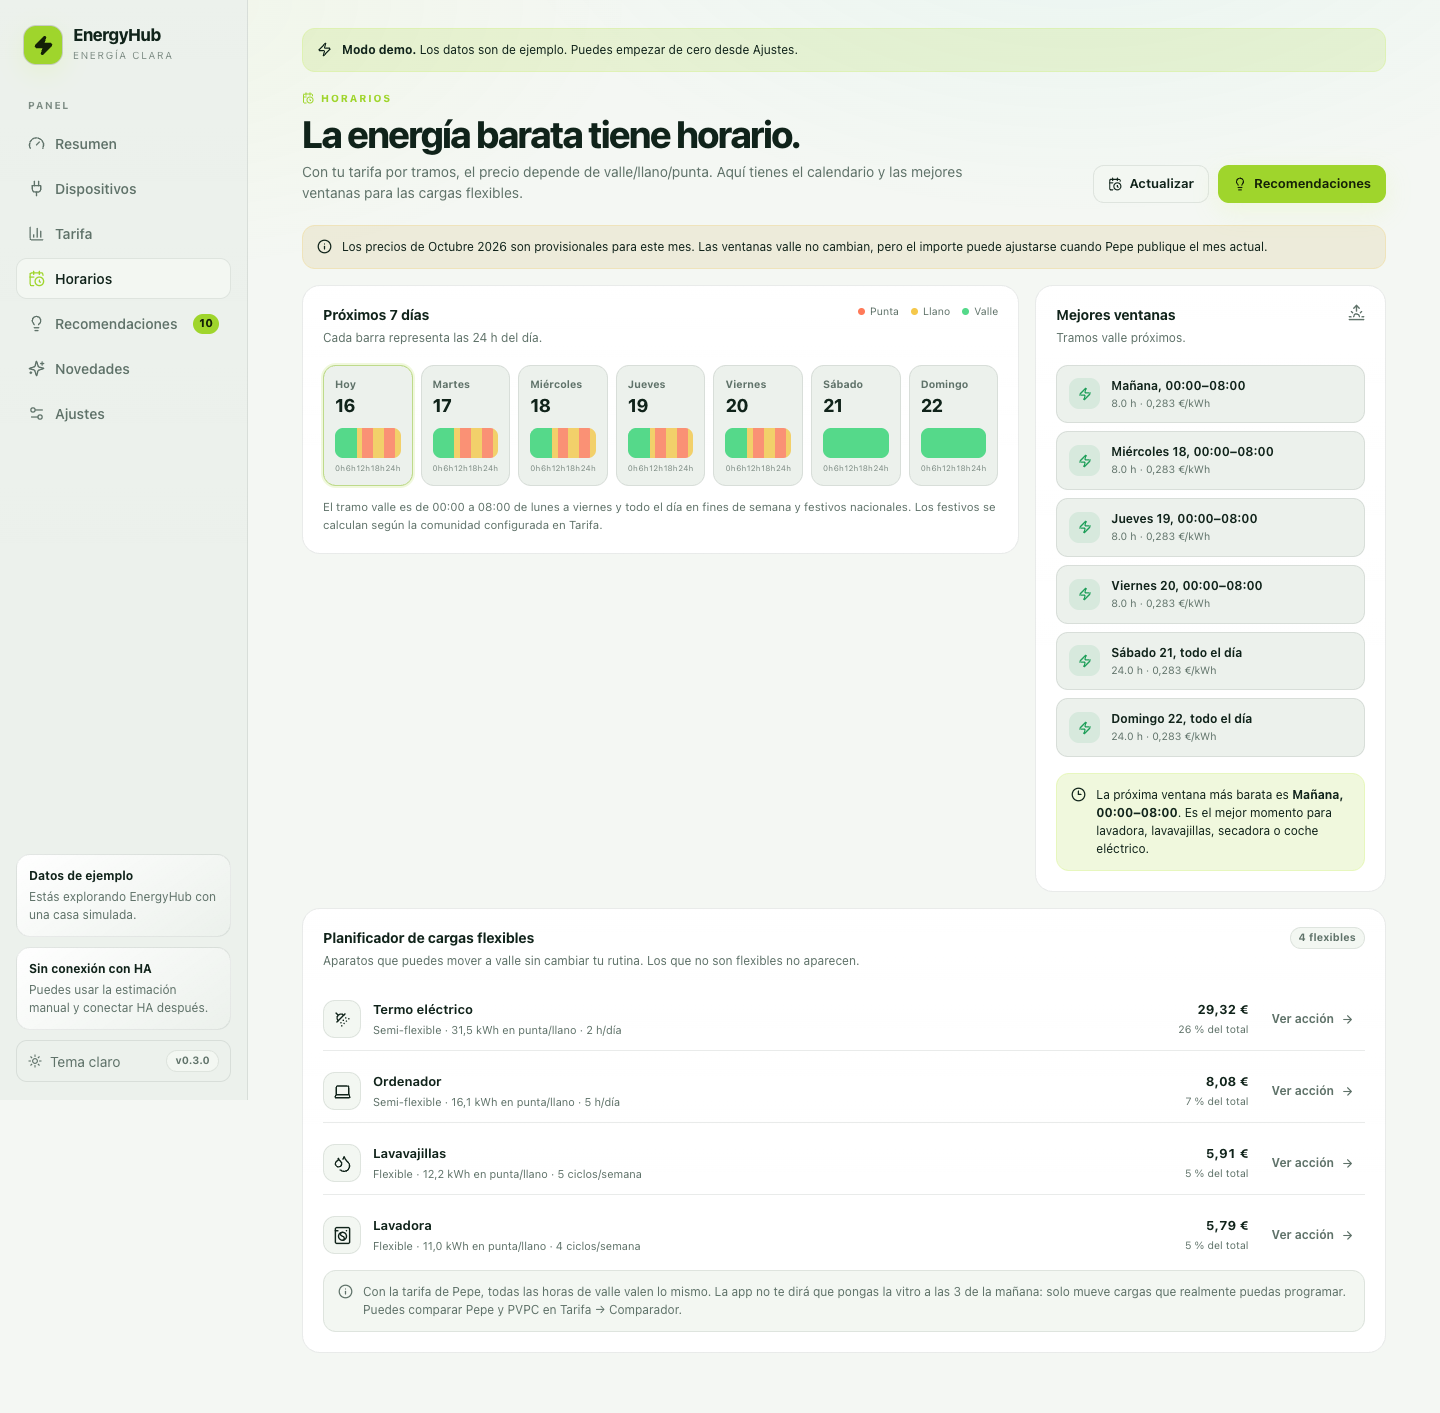
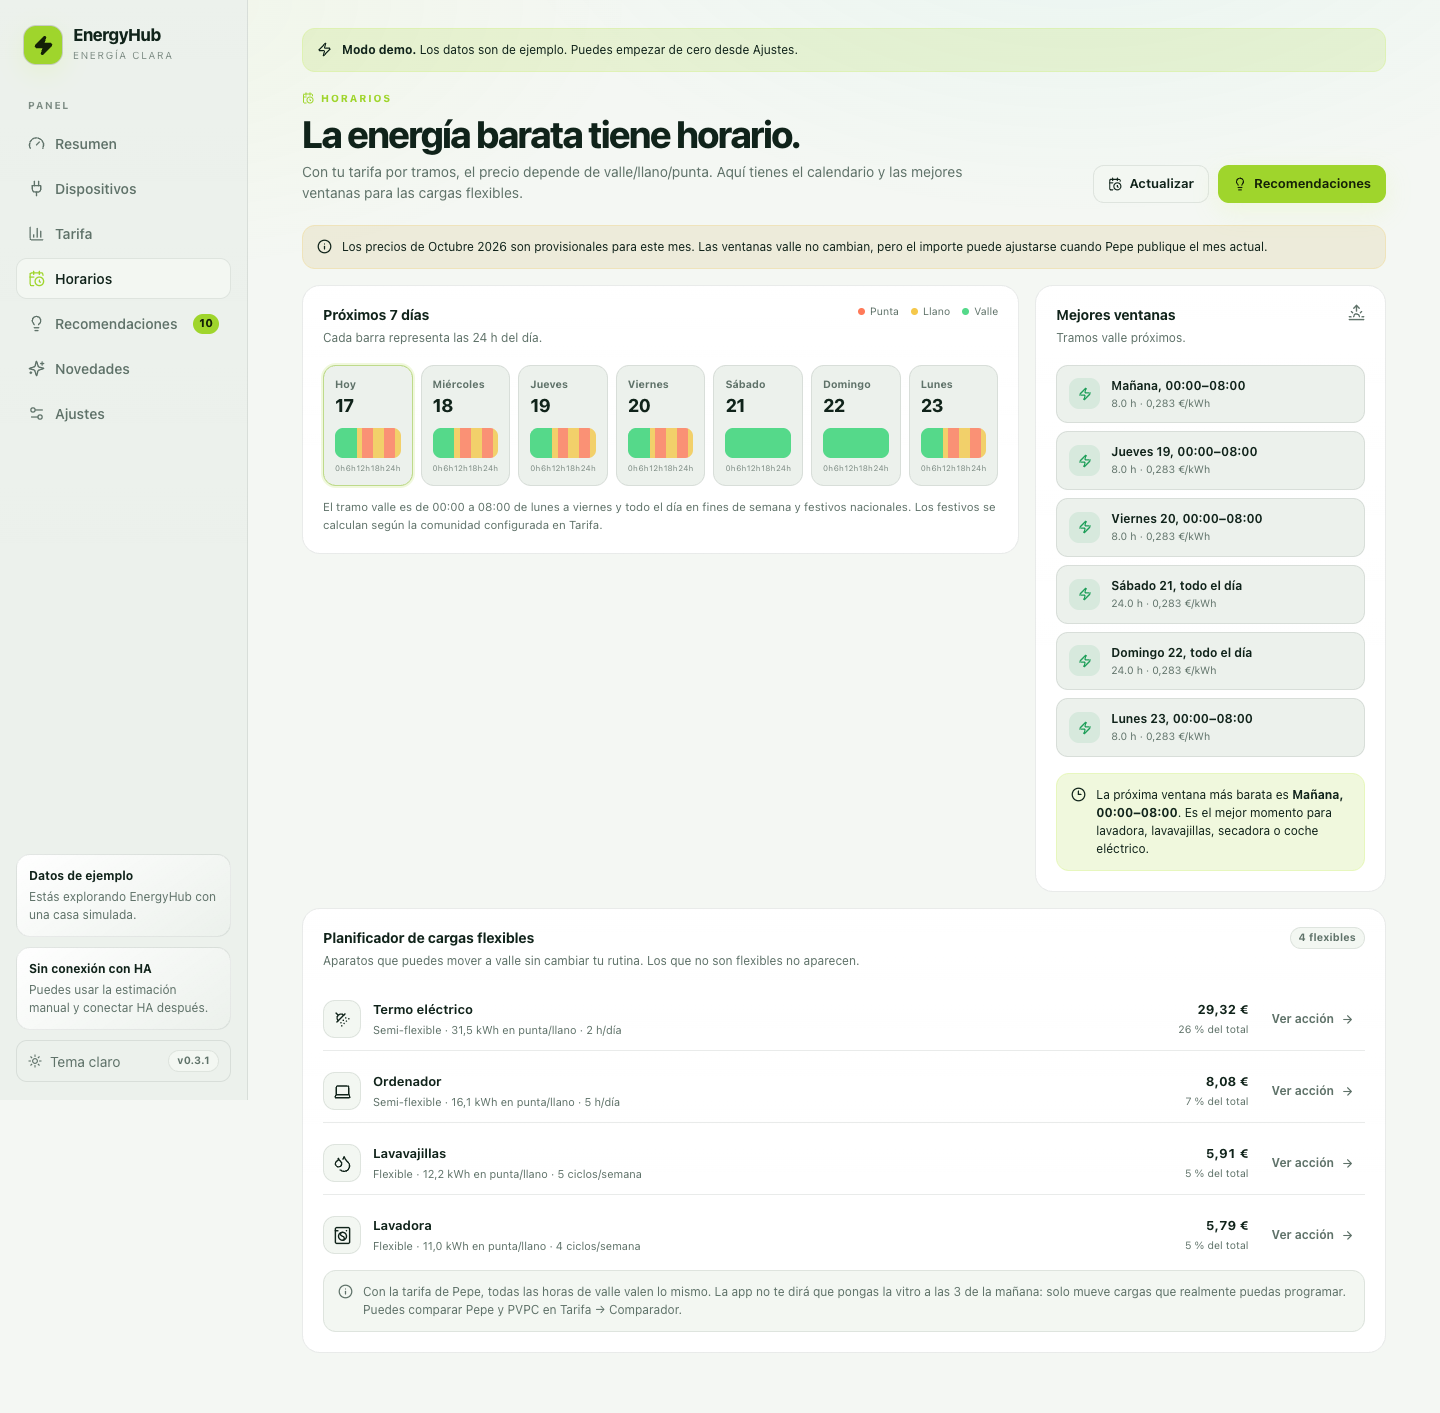
0.3.1: estadísticas de largo plazo para energía de dispositivos

diff --git a/energyhub/backend/app/services/ha.py b/energyhub/backend/app/services/ha.py
@@ -1,10 +1,14 @@
 from __future__ import annotations
 
+import asyncio
+import json
 from dataclasses import dataclass
 from datetime import datetime, timezone
 from typing import Any
+from urllib.parse import urlparse
 
 import httpx
+from websockets.asyncio.client import connect as websocket_connect
 
 from ..config import HA_TOKEN, HA_URL, SUPERVISOR_TOKEN
 
@@ -55,6 +59,73 @@ class HaClient:
             "Authorization": f"Bearer {self.token}",
             "Content-Type": "application/json",
         }
+
+    @property
+    def websocket_url(self) -> str:
+        if SUPERVISOR_TOKEN:
+            return "ws://supervisor/core/websocket"
+        parsed = urlparse(self.base_url)
+        scheme = "wss" if parsed.scheme == "https" else "ws"
+        path = parsed.path.rstrip("/")
+        if path.endswith("/api"):
+            path = path[:-4]
+        return f"{scheme}://{parsed.netloc}{path}/websocket"
+
+    async def get_statistics(
+        self,
+        entity_id: str,
+        start: datetime,
+        end: datetime,
+        period: str = "hour",
+    ) -> list[dict]:
+        if not self.configured:
+            raise HaNotConfigured("Home Assistant no está configurado")
+        if start.tzinfo is None:
+            start = start.replace(tzinfo=timezone.utc)
+        if end.tzinfo is None:
+            end = end.replace(tzinfo=timezone.utc)
+        if end <= start:
+            return []
+        request_id = 1
+        try:
+            async with websocket_connect(self.websocket_url, open_timeout=10, close_timeout=5) as ws:
+                hello = json.loads(await asyncio.wait_for(ws.recv(), timeout=15))
+                if hello.get("type") == "auth_required":
+                    await ws.send(json.dumps({"type": "auth", "access_token": self.token}))
+                    auth = json.loads(await asyncio.wait_for(ws.recv(), timeout=15))
+                else:
+                    auth = hello
+                if auth.get("type") != "auth_ok":
+                    raise HaError("Home Assistant ha rechazado la autenticación WebSocket")
+                await ws.send(
+                    json.dumps(
+                        {
+                            "id": request_id,
+                            "type": "recorder/statistics_during_period",
+                            "start_time": start.isoformat(),
+                            "end_time": end.isoformat(),
+                            "statistic_ids": [entity_id],
+                            "period": period,
+                            "types": ["change"],
+                        }
+                    )
+                )
+                while True:
+                    message = json.loads(await asyncio.wait_for(ws.recv(), timeout=20))
+                    if message.get("id") != request_id:
+                        continue
+                    if not message.get("success"):
+                        error = message.get("error") or {}
+                        raise HaError(
+                            f"Home Assistant no ha devuelto estadísticas: {error.get('message', 'error desconocido')}"
+                        )
+                    result = message.get("result") or {}
+                    rows = result.get(entity_id) if isinstance(result, dict) else None
+                    return rows if isinstance(rows, list) else []
+        except HaError:
+            raise
+        except Exception as exc:
+            raise HaError(f"Error consultando estadísticas de Home Assistant: {exc}") from exc
 
     async def _get(self, path: str, params: dict | None = None) -> Any:
         if not self.configured:

diff --git a/energyhub/backend/app/services/energy_readings.py b/energyhub/backend/app/services/energy_readings.py
@@ -92,6 +92,41 @@ async def _reading_near(
     return after[0] if after else None
 
 
+async def _statistics_total(
+    client: HaClient,
+    entity_id: str,
+    start_local: datetime,
+    end_local: datetime,
+    now: datetime,
+    factor: float,
+) -> float | None:
+    get_statistics = getattr(client, "get_statistics", None)
+    if get_statistics is None:
+        return None
+    stats_end = min(end_local, now)
+    if stats_end <= start_local:
+        return None
+    try:
+        rows = await get_statistics(entity_id, start_local, stats_end, period="hour")
+    except HaError:
+        return None
+    if not rows:
+        return None
+    total = 0.0
+    has_change = False
+    for row in rows:
+        if not isinstance(row, dict) or row.get("change") is None:
+            continue
+        try:
+            total += float(row["change"])
+            has_change = True
+        except (TypeError, ValueError):
+            continue
+    if not has_change or total < 0:
+        return None
+    return total * factor
+
+
 async def fetch_month_energy(
     client: HaClient,
     contract: Contract,
@@ -100,7 +135,7 @@ async def fetch_month_energy(
     month: int,
     now: datetime | None = None,
 ) -> EnergyReadResult:
-    """Read a cumulative kWh sensor for a full month using HA history."""
+    """Read a cumulative kWh sensor for a full month using HA statistics or history."""
     now = now or datetime.now(timezone.utc)
     start_local, end_local = _month_bounds(contract, year, month)
     if start_local.astimezone(timezone.utc) > now:
@@ -123,6 +158,12 @@ async def fetch_month_energy(
             error="La entidad parece una medición instantánea, no un contador acumulado.",
         )
 
+    statistics_energy = await _statistics_total(
+        client, entity_id, start_local, end_local, now, factor
+    )
+    if statistics_energy is not None:
+        return EnergyReadResult(energy_kwh=statistics_energy, unit=str(unit))
+
     end_is_current = end_local.astimezone(timezone.utc) > now - timedelta(minutes=2)
     end_value = _numeric_state(state) if end_is_current else await _reading_near(client, entity_id, end_local)
     if end_value is None:
@@ -133,7 +174,7 @@ async def fetch_month_energy(
             None,
             end_value=end_value,
             unit=str(unit),
-            error="No hay una lectura inicial válida para el mes.",
+            error="No hay historial suficiente al inicio del mes. Revisa que la entidad conserve estadísticas en Home Assistant.",
         )
 
     energy_kwh = (end_value - start_value) * factor

diff --git a/energyhub/backend/tests/test_changelog.py b/energyhub/backend/tests/test_changelog.py
@@ -51,6 +51,7 @@ def test_version_comparison() -> None:
 def test_repository_changelog_contains_current_version() -> None:
     path = Path(__file__).resolve().parents[2] / "CHANGELOG.md"
     entries = parse_changelog(path.read_text(encoding="utf-8"))
+    assert any(entry.version == "0.3.1" for entry in entries)
     assert any(entry.version == "0.3.0" for entry in entries)
     assert any(entry.version == "0.2.2" for entry in entries)
     assert any(entry.version == "0.2.1" for entry in entries)
@@ -58,8 +59,8 @@ def test_repository_changelog_contains_current_version() -> None:
     assert any(entry.version == "0.1.2" for entry in entries)
     assert any(entry.version == "0.1.1" for entry in entries)
     assert any(entry.version == "0.1.0" for entry in entries)
-    assert [entry.version for entry in newer_entries(entries, "0.2.2")] == ["0.3.0"]
-    assert [entry.version for entry in newer_entries(entries, "0.2.1")] == ["0.3.0", "0.2.2"]
+    assert [entry.version for entry in newer_entries(entries, "0.3.0")] == ["0.3.1"]
+    assert [entry.version for entry in newer_entries(entries, "0.2.2")] == ["0.3.1", "0.3.0"]
 
 
 async def test_supervisor_changelog_filters_installed_version(monkeypatch) -> None:
@@ -99,15 +100,15 @@ def test_repository_changelog_is_compatible_with_home_assistant() -> None:
     path = Path(__file__).resolve().parents[2] / "CHANGELOG.md"
     text = path.read_text(encoding="utf-8")
     entries = parse_changelog(text)
-    assert entries[0].version == "0.3.0"
-    assert entries[0].date == "2026-11-16"
-    assert entries[0].notes[0].startswith("Buscador de entidades")
+    assert entries[0].version == "0.3.1"
+    assert entries[0].date == "2026-11-17"
+    assert entries[0].notes[0].startswith("La lectura de energía usa")
 
-    only_latest = _home_assistant_release_notes(text, "0.2.2", "0.3.0")
-    assert "## 0.3.0" in only_latest
-    assert "## 0.2.2" not in only_latest
+    only_latest = _home_assistant_release_notes(text, "0.3.0", "0.3.1")
+    assert "## 0.3.1" in only_latest
+    assert "## 0.3.0" not in only_latest
 
-    two_versions = _home_assistant_release_notes(text, "0.2.1", "0.3.0")
+    two_versions = _home_assistant_release_notes(text, "0.2.2", "0.3.1")
+    assert "## 0.3.1" in two_versions
     assert "## 0.3.0" in two_versions
-    assert "## 0.2.2" in two_versions
-    assert "## 0.2.1" not in two_versions
+    assert "## 0.2.2" not in two_versions

diff --git a/energyhub/backend/tests/test_energy_readings.py b/energyhub/backend/tests/test_energy_readings.py
@@ -160,3 +160,23 @@ async def test_refresh_readings_stores_month_energy_and_skips_complete_month() -
             db, client, contract, [device], 2026, 1
         )
         assert skipped == 0
+
+
+class FakeStatsHaClient(FakeHaClient):
+    async def get_statistics(self, _entity_id: str, _start, _end, period: str = "hour"):
+        assert period == "hour"
+        return [{"change": 12.5}, {"change": 7.5}]
+
+
+async def test_fetch_month_energy_prefers_long_term_statistics() -> None:
+    client = FakeStatsHaClient(energy_state(), [])
+    result = await energy_readings.fetch_month_energy(
+        client,  # type: ignore[arg-type]
+        make_contract(),
+        "sensor.lavadora_energy",
+        2026,
+        1,
+        now=datetime(2026, 2, 15, tzinfo=timezone.utc),
+    )
+    assert result.error is None
+    assert result.energy_kwh == 20.0

diff --git a/energyhub/backend/app/config.py b/energyhub/backend/app/config.py
@@ -26,7 +26,7 @@ def _load_env_files() -> None:
 _load_env_files()
 
 APP_NAME = "EnergyHub"
-APP_VERSION = "0.3.0"
+APP_VERSION = "0.3.1"
 DEFAULT_TIMEZONE = "Europe/Madrid"
 GITHUB_REPO_URL = "https://github.com/merchedev/EnergyHub"
 CHANGELOG_URL = os.getenv(

diff --git a/docs/estimation-and-tariffs.md b/docs/estimation-and-tariffs.md
@@ -106,7 +106,7 @@ Los ciclos se reparten entre los días y la franja típica. El standby se calcul
 
 Si el aparato expone un contador de energía acumulada (`device_class: energy`, unidad kWh o Wh, preferiblemente `state_class: total_increasing`), se puede seleccionar en la ficha:
 
-- La app lee la primera y la última lectura del mes desde el historial de Home Assistant.
+- La app usa las estadísticas de largo plazo de Home Assistant cuando están disponibles; si no, recurre al historial de estados.
 - Convierte Wh o MWh a kWh.
 - Si la lectura final es menor que la inicial, no la usa y mantiene la estimación manual.
 - El consumo real se reparte por la franja típica del aparato; el reparto por tramos es aproximado si solo se conoce el total mensual.

diff --git a/energyhub/CHANGELOG.md b/energyhub/CHANGELOG.md
@@ -1,5 +1,14 @@
 # Changelog
 
+## 0.3.1
+2026-11-17
+
+- La lectura de energía usa las estadísticas de largo plazo de Home Assistant cuando están disponibles.
+- Esto evita el error de «lectura inicial» cuando el historial bruto no llega al inicio del mes, pero el contador sí tiene estadísticas.
+- Si no hay estadísticas ni historial suficiente, se muestra un mensaje más claro y se mantiene la estimación manual.
+- Añadida la dependencia `websockets` para consultar estadísticas por la API WebSocket de Home Assistant.
+- Tests de lectura mediante estadísticas y del flujo de respaldo.
+
 ## 0.3.0
 2026-11-16
 
